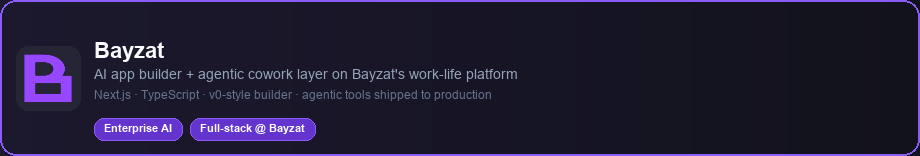
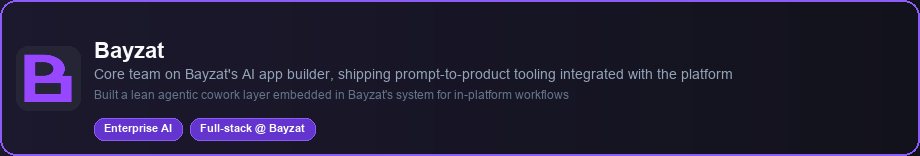
Update Bayzat card copy for builder and agentic cowork work.

Changed region(s): [[0.0913, 0.4359, 0.7913, 0.5385], [0.0913, 0.5641, 0.6391, 0.641]]

diff --git a/scripts/generate-cards.py b/scripts/generate-cards.py
@@ -24,8 +24,8 @@ PROJECTS = [
     {
         "id": "bayzat",
         "name": "Bayzat",
-        "desc": "AI app builder + agentic cowork layer on Bayzat's work-life platform",
-        "desc2": "Next.js · TypeScript · v0-style builder · agentic tools shipped to production",
+        "desc": "Core team on Bayzat's AI app builder, shipping prompt-to-product tooling integrated with the platform",
+        "desc2": "Built a lean agentic cowork layer embedded in Bayzat's system for in-platform workflows",
         "tags": ["Enterprise AI", "Full-stack @ Bayzat"],
         "accent": "#8b5cf6",
         "logo_url": "https://cdn.jsdelivr.net/gh/GLINCKER/thesvg@main/public/icons/bayzat/default.svg",
